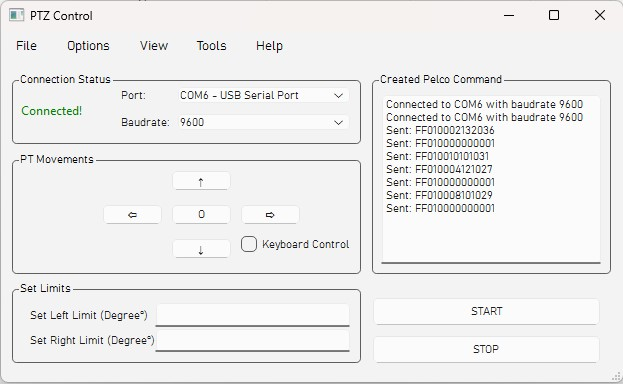
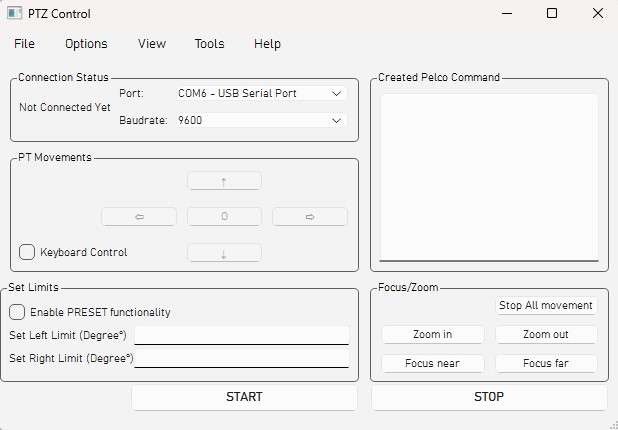
V1.1 Release - focus/zoom/preset functionality added

diff --git a/mainwindow.cpp b/mainwindow.cpp
@@ -10,6 +10,7 @@ MainWindow::MainWindow(QWidget *parent)
     workerThread(nullptr)
 {
     ui->setupUi(this);
+    this->setFocusPolicy(Qt::StrongFocus);
 
     connect(ui->connectButton, &QPushButton::clicked, this, &MainWindow::on_connectButton_clicked);
     connect(ui->stopButton, &QPushButton::clicked, this, &MainWindow::on_stopButton_clicked);
@@ -29,6 +30,15 @@ MainWindow::MainWindow(QWidget *parent)
     connect(ui->leftButton, &QPushButton::clicked, this, [this]() { on_movement_handler("FF010004121027"); });
     connect(ui->rightButton, &QPushButton::clicked, this, [this]() { on_movement_handler("FF010002132036"); });
     connect(ui->noneButton, &QPushButton::clicked, this, [this]() { on_movement_handler("FF010000000001"); });
+    connect(ui->stopAllButton, &QPushButton::clicked, this, [this]() { on_movement_handler("FF010000000001"); });
+    connect(ui->zoomInButton, &QPushButton::clicked, this, [this]() { on_movement_handler("FF010020000021"); });
+    connect(ui->zoomOutButton, &QPushButton::clicked, this, [this]() { on_movement_handler("FF010040000041"); });
+    connect(ui->focusInButton, &QPushButton::clicked, this, [this]() { on_movement_handler("FF010080000081"); });
+    connect(ui->focusOutButton, &QPushButton::clicked, this, [this]() { on_movement_handler("FF010100000103"); });
+
+    // Checkboxes
+    connect(ui->keyboardCheckBox, &QCheckBox::stateChanged, this, &MainWindow::on_keyboard_handler);
+    connect(ui->presetEnableCheckBox, &QCheckBox::stateChanged, this, &MainWindow::on_set_limit_handler);
 
     // Detect serial ports in beginning
     detectSerialPorts();
@@ -109,6 +119,7 @@ void MainWindow::on_connectButton_clicked()
     ui->downButton->setEnabled(true);
     ui->leftButton->setEnabled(true);
     ui->rightButton->setEnabled(true);
+    ui->noneButton->setEnabled(true);
 
     // Set text on label with green color
     ui->statusLabel->setStyleSheet("QLabel { color : green; }");
@@ -137,6 +148,7 @@ void MainWindow::on_stopButton_clicked()
     ui->downButton->setEnabled(false);
     ui->leftButton->setEnabled(false);
     ui->rightButton->setEnabled(false);
+    ui->noneButton->setEnabled(false);
 
     // Enable Comboboxes
     ui->PortComboBox->setEnabled(true);
@@ -170,4 +182,73 @@ void MainWindow::on_advancedViewButton_clicked()
 {
     // Show advanced view
     QMessageBox::information(this, "Advanced View", "This feature is not available yet.");
+}
+
+void MainWindow::keyPressEvent(QKeyEvent *event)
+{
+    switch(event->key()) {
+        case Qt::Key_Up:
+            on_movement_handler("FF010008101029");
+            break;
+        case Qt::Key_Down:
+            on_movement_handler("FF010010101031");
+            break;
+        case Qt::Key_Left:
+            on_movement_handler("FF010004121027");
+            break;
+        case Qt::Key_Right:
+            on_movement_handler("FF010002132036");
+            break;
+        default:
+            on_movement_handler("FF010000000001");
+            break;
+    }
+}
+
+void MainWindow::on_keyboard_handler(void)
+{
+    // Enable or disable keyboard control
+    if (ui->keyboardCheckBox->isChecked()) {
+        // Enable keyboard control
+        ui->textBrowser->append("Keyboard control enabled.");
+
+        // Connect keyboard events
+
+    } else {
+        // Disable keyboard control
+        ui->textBrowser->append("Keyboard control disabled.");
+    }
+}
+
+void MainWindow::on_set_limit_handler(void)
+{
+    // Enable or disable preset limit control
+    if (ui->presetEnableCheckBox->isChecked()) {
+        // Enable preset limit control
+        ui->textBrowser->append("Preset limit control enabled.");
+
+        // Enable LineEdits
+        ui->leftLineEdit->setEnabled(true);
+        ui->rightLineEdit->setEnabled(true);
+
+        // Read the values from LineEdits
+        int leftLimit = ui->leftLineEdit->text().toInt();
+        int rightLimit = ui->rightLineEdit->text().toInt();
+
+        // Check if the values are valid
+        if (leftLimit < 0 || leftLimit > 360 || rightLimit < 0 || rightLimit > 360) {
+            QMessageBox::warning(this, "Warning", "Please enter a valid degree value between 0 and 360.");
+            return;
+        }
+
+        // Todo add preset 202,203,204 functionality.
+
+    } else {
+        // Disable preset limit control
+        ui->textBrowser->append("Preset limit control disabled.");
+
+        // Disable LineEdits
+        ui->leftLineEdit->setEnabled(false);
+        ui->rightLineEdit->setEnabled(false);
+    }
 }

diff --git a/mainwindow.h b/mainwindow.h
@@ -4,6 +4,7 @@
 #include "serialportworker.h"
 #include <QMainWindow>
 #include <QThread>
+#include <QKeyEvent>
 
 QT_BEGIN_NAMESPACE
 namespace Ui {
@@ -27,12 +28,14 @@ private slots:
     void on_aboutButton_clicked();
     void on_checkUpdatesButton_clicked();
     void on_advancedViewButton_clicked();
-    
+    void on_keyboard_handler();
+    void on_set_limit_handler();
     void on_movement_handler(QString data);
 private:
     Ui::MainWindow *ui;
     QThread *workerThread;
     SerialPortWorker *worker;
     void detectSerialPorts();
+    void keyPressEvent(QKeyEvent *event);
 };
 #endif // MAINWINDOW_H
